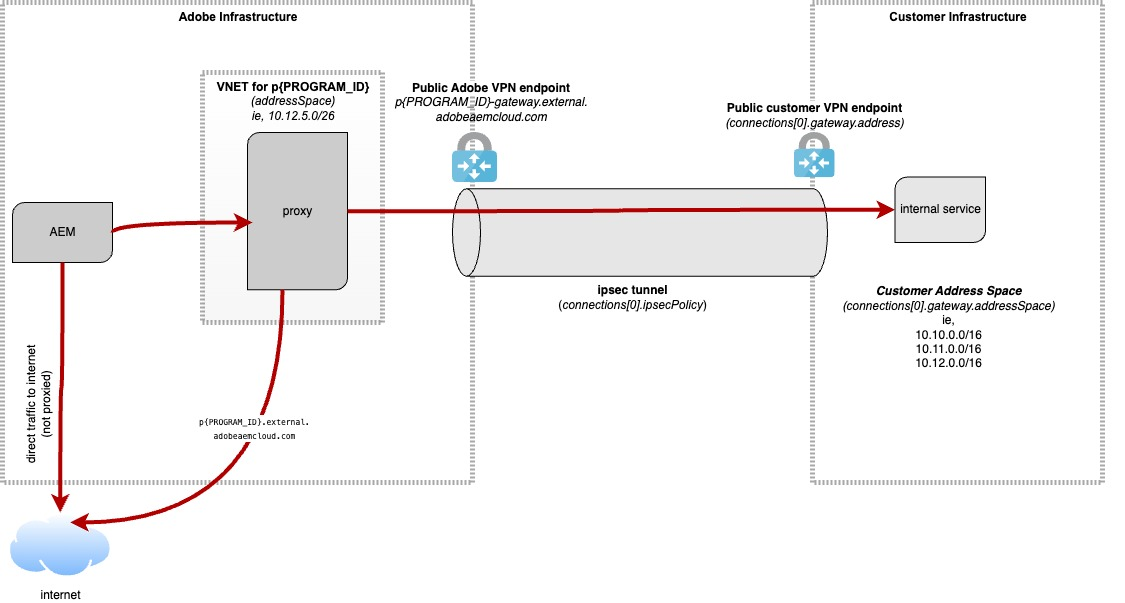
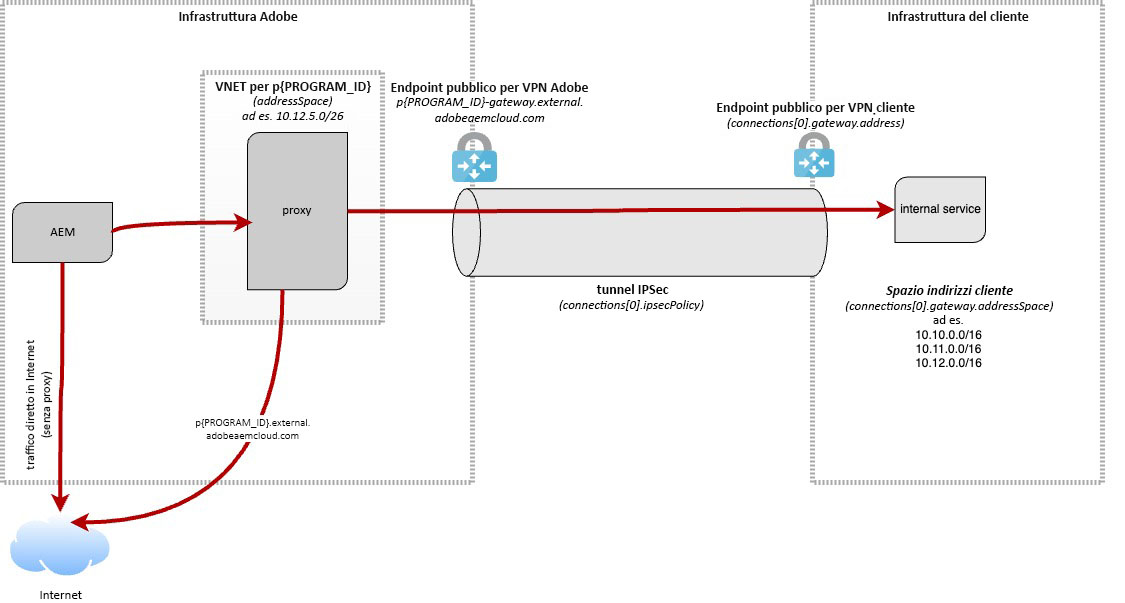
Updated by task 'AUTO_HANDOFF_PRIORITY_1731069587365'  Changes for core/source commit https://git.corp.adobe.com/AdobeDocs/experience-manager-cloud-service.en/commit/54368872e8e7d5f177ca75e6280786b33562cf8f

diff --git a/help/implementing/cloud-manager/release-notes/current.md b/help/implementing/cloud-manager/release-notes/current.md
@@ -1,34 +1,34 @@
 ---
 title: Note sulla versione 2024.11.0 di Cloud Manager in Adobe Experience Manager as a Cloud Service
-description: Scopri la versione di Cloud Manager 2024.11.0 in AEM as a Cloud Service.
+description: Ulteriori informazioni sulla versione 2024.11.0 di Cloud Manager in AEM as a Cloud Service.
 feature: Release Information
 role: Admin
 exl-id: 24d9fc6f-462d-417b-a728-c18157b23bbe
 source-git-commit: 87293526ca9c10a142bc1d1d3a35562b171da385
-workflow-type: tm+mt
+workflow-type: ht
 source-wordcount: '784'
-ht-degree: 30%
+ht-degree: 100%
 
 ---
 
 # Note sulla versione 2024.11.0 di Cloud Manager in Adobe Experience Manager as a Cloud Service {#release-notes}
 
-Scopri la versione 2024.11.0 di Cloud Manager nell’as a Cloud Service AEM (Adobe Experience Manager).
+Ulteriori informazioni sulla versione 2024.11.0 di Cloud Manager in AEM (Adobe Experience Manager) as a Cloud Service.
 
 >[!NOTE]
 >
 >Consulta le [note sulla versione corrente di Adobe Experience Manager as a Cloud Service](/help/release-notes/release-notes-cloud/release-notes-current.md).
 
-## Date di rilascio {#release-date}
+## Date di pubblicazione {#release-date}
 
-La data di pubblicazione di Cloud Manager 2024.11.0 in AEM as a Cloud Service è il 7 novembre 2024.
+La data di pubblicazione della versione 2021.11.0 di Cloud Manager in AEM as a Cloud Service è il 7 novembre 2024.
 
 La prossima versione pianificata è il 5 dicembre 2024.
 
 ## Novità {#what-is-new}
 
-* Scopri le ultime innovazioni nei Edge Delivery Services con AEM Cloud Service, ora disponibile per l’esplorazione nel tuo programma Sandbox. [Ulteriori informazioni](/help/implementing/cloud-manager/getting-access-to-aem-in-cloud/introduction-sandbox-programs.md#auto-creation) <!-- (CMGR-62319) -->
-* La pagina Impostazioni dominio in AEM Cloud Manager ora include una funzione di ricerca che consente di individuare rapidamente i domini per nome. Puoi immettere parole chiave nel campo di ricerca per filtrare e visualizzare i domini corrispondenti, semplificando così la gestione efficiente di più domini. Inoltre, la pagina offre filtri di stato, ad esempio **Verificato** e **Non verificato**, per perfezionare ulteriormente i risultati della ricerca. <!-- (CMGR-62615) -->
+* Scopri le innovazioni più recenti in Edge Delivery Services con AEM Cloud Service, ora disponibile per l’esplorazione nel tuo programma Sandbox. [Ulteriori informazioni](/help/implementing/cloud-manager/getting-access-to-aem-in-cloud/introduction-sandbox-programs.md#auto-creation) <!-- (CMGR-62319) -->
+* La pagina Impostazioni dominio in AEM Cloud Manager ora include una funzione di ricerca che consente di individuare rapidamente i domini per nome. Nel campo di ricerca è possibile immettere parole chiave per filtrare e visualizzare i domini corrispondenti, semplificando così la gestione efficiente di più domini. Inoltre, la pagina offre filtri di stato, ad esempio **Verificato** e **Non verificato**, per perfezionare ulteriormente i risultati della ricerca. <!-- (CMGR-62615) -->
 
 ![Campo di ricerca nelle impostazioni del dominio](/help/implementing/cloud-manager/assets/domain-settings-search.png)
 
@@ -36,15 +36,15 @@ La prossima versione pianificata è il 5 dicembre 2024.
 
 Partecipa al programma per i primi utilizzatori di Cloud Manger e concediti la possibilità di testare le prossime funzionalità.
 
-### Home page AEM {#aem-home}
+### Pagina Home di AEM {#aem-home}
 
-La Home di AEM introduce un punto di partenza centralizzato per la gestione di contenuti, risorse e siti in Adobe Experience Manager. Progettata per offrire un’esperienza personalizzata, la Home dell’AEM ti consente di navigare nell’ecosistema dell’AEM senza problemi in base ai tuoi ruoli e obiettivi. Funge da guida e fornisce informazioni chiave e azioni consigliate per aiutarti a raggiungere gli obiettivi in modo efficiente. Con un layout chiaro e personalizzato, la Home dell’AEM assicura un accesso rapido a strumenti essenziali, supportando un’esperienza semplificata ed efficace in tutte le funzioni dell’AEM.
+La pagina Home di AEM rappresenta un punto di partenza centralizzato per la gestione di contenuti, risorse e siti in Adobe Experience Manager. Progettata per offrire un’esperienza personalizzata, la pagina Home di AEM consente di navigare nell’ecosistema di AEM in modo semplice in base ai ruoli e agli obiettivi. Funge da guida e fornisce informazioni chiave e azioni consigliate per aiutare a raggiungere gli obiettivi in modo efficiente. Con un layout chiaro e personalizzato, la pagina Home di AEM assicura un accesso rapido a strumenti essenziali, supportando un’esperienza semplificata ed efficace in tutte le funzioni di AEM.
 
-Disponibile per i primi utenti, AEM Home offre un’esperienza ottimizzata incentrata sul miglioramento dei flussi di lavoro, sulla definizione delle priorità degli obiettivi e sulla distribuzione dei risultati. Opt in consente di influenzare lo sviluppo della Home dell&#39;AEM fornendo un feedback che aiuta a modellarne il futuro e ne aumenta il valore per l&#39;intera comunità dell&#39;AEM.
+Disponibile per i primi utilizzatori, la pagina Home di AEM offre un’esperienza ottimizzata incentrata sul miglioramento dei flussi di lavoro, sulla definizione delle priorità degli obiettivi e sulla distribuzione dei risultati. Consentendone l’utilizzo permette di influenzare lo sviluppo della pagina Home di AEM fornendo un feedback che aiuta a modellarne il futuro e ne aumenta il valore per l’intera comunità di AEM.
 
-Se ti interessa testare questa nuova funzionalità e condividere i tuoi commenti, invia un&#39;e-mail a [Grp-AemHome@adobe.com](mailto:Grp-AemHome@adobe.com) dal tuo indirizzo e-mail associato al tuo Adobe ID. Accertati di includere le seguenti informazioni:
+Se ti interessa testare questa nuova funzionalità e condividere il tuo feedback, invia un’e-mail a [Grp-AemHome@adobe.com](mailto:Grp-AemHome@adobe.com) dall’indirizzo e-mail associato al tuo Adobe ID. Accertati di includere le seguenti informazioni:
 
-* Il ruolo più adatto al tuo profilo: Autore di contenuti, Sviluppatore, Proprietario business, Amministratore o Altro (fornisci una descrizione).
+* Il ruolo più adatto al tuo profilo: autore del contenuto, sviluppatore, Proprietario business, amministratore o altro (fornisci una descrizione).
 * Superficie di accesso AEM principale: AEM Sites, AEM Assets, AEM Forms, Cloud Manager o altro (fornisci una descrizione).
 
 ### Bring Your Own Git: ora con supporto per GitLab e Bitbucket {#gitlab-bitbucket}
@@ -61,16 +61,16 @@ Consulta [Aggiungere archivi esterni in Cloud Manager](/help/implementing/cloud-
 >
 >Attualmente, i controlli di qualità predefiniti per il codice di richiesta pull sono esclusivi degli archivi ospitati in GitHub, ma è in preparazione un aggiornamento per estendere questa funzionalità anche ad altri fornitori Git.
 
-Se ti interessa testare questa nuova funzione e condividere il tuo feedback, invia un’e-mail a [Grp-CloudManager_BYOG@adobe.com](mailto:Grp-CloudManager_BYOG@adobe.com) dall’indirizzo e-mail associato al tuo Adobe ID. Assicurati di includere la piattaforma Git da utilizzare e se ti trovi in una struttura di archivio privata/pubblica o aziendale. —>
+Se ti interessa testare questa nuova funzione e condividere il tuo feedback, invia un’e-mail a [Grp-CloudManager_BYOG@adobe.com](mailto:Grp-CloudManager_BYOG@adobe.com) dall’indirizzo e-mail associato al tuo Adobe ID. Se ti trovi in una struttura di archivio privata/pubblica o aziendale, assicurati di specificare la piattaforma Git che desideri utilizzare. -->
 
 
 ## Correzioni di bug
 
-* Un aggiornamento recente ha risolto un problema in SonarQube a causa del quale in alcuni casi non venivano rilevate password hardcoded. La correzione ora include un controllo pattern espanso e si allinea agli standard di rilevamento predefiniti in SonarQube. <!-- CMGR-62682 -->
+* Un aggiornamento recente ha risolto un problema in SonarQube a causa del quale in alcuni casi non venivano rilevate le password hardcoded. La correzione ora include un controllo pattern espanso e si allinea agli standard di rilevamento predefiniti in SonarQube. <!-- CMGR-62682 -->
 * Quando si tenta di aggiornare un certificato SSL in Cloud Manager, viene visualizzato un errore sconosciuto dopo aver fatto clic su **[!UICONTROL Aggiorna]** nella finestra di dialogo **[!UICONTROL Visualizza e aggiorna certificato SSL]**. <!-- CMGR-62848 -->
-* In Cloud Manager, gli aggiornamenti del certificato SSL non riuscivano e veniva visualizzato l’errore &quot;Il nuovo certificato non corrisponde ai domini esistenti&quot;, anche quando i domini erano identici ma presentavano differenze in lettere maiuscole o minuscole. L&#39;aggiornamento ora riconosce i domini senza distinzione tra maiuscole e minuscole, allineandoli agli standard RFC. <!-- CMGR-62844 -->
-* In Cloud Manager, le associazioni dei Elenchi Consentiti di indirizzi IP sono rimaste bloccate in uno stato di esecuzione perché mancavano collegamenti chiave esterni alle configurazioni del dominio. La correzione ora garantisce che i binding del Inserisco nell&#39;elenco Consentiti di IP siano collegati correttamente alle configurazioni di dominio associate. <!-- CMGR-62838 -->
-* Cloud Manager convalida lo stato OCSP (Online Certificate Status Protocol) di un certificato SSL. Adobe consiglia inoltre di convalidare l&#39;integrità del certificato localmente utilizzando uno strumento come `openssl verify -untrusted intermediate.pem certificate.pem` prima di installarlo tramite Cloud Manager. Per ulteriori dettagli, consulta la [documentazione sui requisiti del certificato SSL](https://experienceleague.adobe.com/en/docs/experience-manager-cloud-service/content/implementing/using-cloud-manager/manage-ssl-certificates/introduction-to-ssl-certificates#requirements). <!-- CMGR-62341  -->
+* In Cloud Manager, gli aggiornamenti del certificato SSL non riuscivano e veniva visualizzato l’errore “Il nuovo certificato non corrisponde ai domini esistenti”, anche quando i domini erano identici ma presentavano differenze in lettere maiuscole o minuscole. L’aggiornamento ora riconosce i domini senza distinzione tra maiuscole e minuscole, allineandoli agli standard RFC. <!-- CMGR-62844 -->
+* In Cloud Manager, le associazioni di elenchi IP consentiti sono rimaste bloccate in uno stato di esecuzione perché mancavano collegamenti chiave esterni alle configurazioni del dominio. La correzione ora garantisce che le associazioni di elenchi IP consentiti siano collegate correttamente alle configurazioni di dominio associate. <!-- CMGR-62838 -->
+* Cloud Manager convalida lo stato OCSP (Online Certificate Status Protocol) di un certificato SSL. Adobe consiglia inoltre di convalidare l’integrità del certificato localmente utilizzando uno strumento come `openssl verify -untrusted intermediate.pem certificate.pem` prima di installarlo tramite Cloud Manager. Per ulteriori dettagli, consulta la [documentazione sui requisiti del certificato SSL](https://experienceleague.adobe.com/it/docs/experience-manager-cloud-service/content/implementing/using-cloud-manager/manage-ssl-certificates/introduction-to-ssl-certificates#requirements). <!-- CMGR-62341  -->
 
 
 

diff --git a/help/security/configuring-advanced-networking.md b/help/security/configuring-advanced-networking.md
@@ -5,9 +5,9 @@ exl-id: 968cb7be-4ed5-47e5-8586-440710e4aaa9
 feature: Security
 role: Admin
 source-git-commit: 2a7d46e91bbd6ca96bd8b7fd5d4d84cf69bdee36
-workflow-type: tm+mt
+workflow-type: ht
 source-wordcount: '5524'
-ht-degree: 99%
+ht-degree: 100%
 
 ---
 
@@ -398,7 +398,7 @@ Per verificare che il traffico sia effettivamente in uscita all’indirizzo IP d
 
 ## Virtual Private Network (VPN) {#vpn}
 
-Una VPN consente la connessione a un’infrastruttura on-premise o a un centro dati dalle istanze di authoring, pubblicazione o anteprima. Ciò può essere utile, ad esempio, per proteggere l’accesso a un database. Consente inoltre la connessione ai fornitori SaaS, ad esempio un fornitore di CRM che supporta la VPN.
+Una VPN consente la connessione a un’infrastruttura on-premise o a un centro dati dalle istanze di authoring, pubblicazione o anteprima. Ciò può essere utile, ad esempio, per proteggere l’accesso a un database. Consente inoltre di connettersi ai fornitori SaaS, ad esempio un fornitore di CRM che supporta la VPN.
 
 Sono supportati la maggior parte dei dispositivi VPN con tecnologia IPSec. Consulta le informazioni nella colonna **Istruzioni di configurazione Route Based** in [questo elenco di dispositivi.](https://learn.microsoft.com/it-it/azure/vpn-gateway/vpn-gateway-about-vpn-devices#devicetable) Configura il dispositivo come descritto nella tabella.
 
@@ -774,7 +774,7 @@ La procedura è quasi identica alle istruzioni degli indirizzi IP in uscita dedi
 
 I seguenti punti sono forniti come linee guida informative e includono best practice per la risoluzione dei problemi. Questi consigli hanno lo scopo di aiutare a diagnosticare e risolvere in modo efficace i problemi.
 
-### Connection pooling {#connection-pooling-advanced-networking}
+### Pool di connessioni {#connection-pooling-advanced-networking}
 
 Il pool di connessioni è una tecnica ideata per creare e sostenere un archivio di connessioni, pronte per essere utilizzate fin da subito dai thread che possano richiederle. Su varie piattaforme e risorse online si possono trovare numerose tecniche di connection pooling, ciascuna con i suoi meriti e considerazioni particolari. Incoraggiamo i nostri clienti a studiare queste metodologie per identificare quella più compatibile con l’architettura del loro sistema.
 
